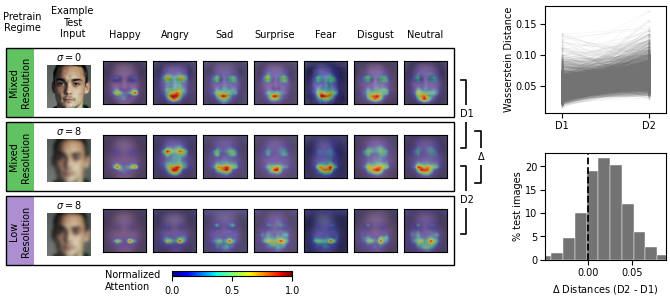
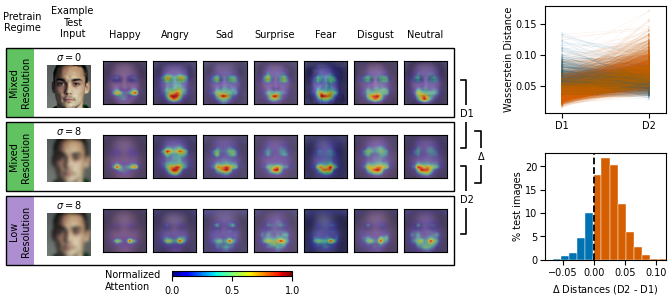
Add options for showing wasserstein dists in prototype figure

Changed region(s): [[0.806, 0.5066, 1.0, 0.9238], [0.8358, 0.0894, 0.9851, 0.3576]]

diff --git a/Figures/attention_maps/plot_wasserstein_dists_paired.py b/Figures/attention_maps/plot_wasserstein_dists_paired.py
@@ -9,8 +9,18 @@ import pandas as pd
 
 
 def plot_wasserstein_dists_paired(csv_path, ax=None, *, color="0.45", alpha=0.08,
-                                  linewidth=0.4, marker_size=2, font_size=7):
+                                  linewidth=0.4, marker_size=2, font_size=7,
+                                  line_color_mode="gray", marker_color_mode="gray",
+                                  positive_color="#0072B2", negative_color="#D55E00",
+                                  d1_color="#D55E00", d2_color="#0072B2", random_seed=0,
+                                  negative_on_top=False, line_alpha=None, transparent_slopes="all"):
     """Plot every finite distance pair, preserving row correspondence."""
+    if line_color_mode not in {"gray", "random", "slope"}:
+        raise ValueError("line_color_mode must be gray, random, or slope")
+    if marker_color_mode not in {"gray", "distance", "slope"}:
+        raise ValueError("marker_color_mode must be gray, distance, or slope")
+    if transparent_slopes not in {"all", "positive", "negative"}:
+        raise ValueError("transparent_slopes must be all, positive, or negative")
     frame = pd.read_csv(csv_path)
     columns = ["wasserstein_distance_a", "wasserstein_distance_b"]
     missing = [column for column in columns if column not in frame]
@@ -24,10 +34,40 @@ def plot_wasserstein_dists_paired(csv_path, ax=None, *, color="0.45", alpha=0.08
         _, ax = plt.subplots(figsize=(2.5, 2.5), layout="constrained")
     segments = np.stack([np.column_stack([np.zeros(len(pairs)), pairs[:, 0]]),
                          np.column_stack([np.ones(len(pairs)), pairs[:, 1]])], axis=1)
-    ax.add_collection(LineCollection(segments, colors=color, alpha=alpha,
+    slopes = pairs[:, 1] - pairs[:, 0]
+    slope_colors = [positive_color if slope > 0 else negative_color if slope < 0 else color
+                    for slope in slopes]
+    line_colors = color
+    if line_color_mode == "random":
+        line_colors = plt.get_cmap("hsv")(np.random.default_rng(random_seed).random(len(pairs)))
+    elif line_color_mode == "slope":
+        line_colors = slope_colors
+    if marker_color_mode == "slope":
+        marker_colors = slope_colors + slope_colors
+    elif marker_color_mode == "distance":
+        marker_colors = [d1_color] * len(pairs) + [d2_color] * len(pairs)
+    else:
+        marker_colors = color
+    line_opacity = alpha if line_alpha is None else line_alpha
+    marker_opacity = alpha
+    if transparent_slopes != "all":
+        selected = slopes > 0 if transparent_slopes == "positive" else slopes < 0
+        line_opacity = np.where(selected, line_opacity, 1.0)
+        marker_opacity = np.tile(np.where(selected, alpha, 1.0), 2)
+    if negative_on_top:
+        # Stable ordering preserves CSV order within each slope group, and keeps
+        # each random/slope color attached to its original observation.
+        order = np.argsort(pairs[:, 1] < pairs[:, 0], kind="stable")
+        segments = segments[order]
+        if np.ndim(line_opacity):
+            line_opacity = line_opacity[order]
+        if line_color_mode != "gray":
+            line_colors = np.asarray(line_colors)[order]
+    ax.add_collection(LineCollection(segments, colors=line_colors,
+                                     alpha=line_opacity,
                                      linewidths=linewidth, rasterized=True))
-    ax.scatter(np.repeat([0, 1], len(pairs)), pairs.T.ravel(), color=color,
-               alpha=alpha, s=marker_size, linewidths=0, rasterized=True)
+    ax.scatter(np.repeat([0, 1], len(pairs)), pairs.T.ravel(), color=marker_colors,
+               alpha=marker_opacity, s=marker_size, linewidths=0, rasterized=True)
     ax.autoscale_view()
     ax.set_xlim(-0.2, 1.2)
     ax.set_xticks([0, 1], ["D1", "D2"])
@@ -41,12 +81,21 @@ def main():
     parser = argparse.ArgumentParser(description=__doc__)
     parser.add_argument("csv_path", type=Path)
     parser.add_argument("--alpha", type=float, default=0.08)
+    parser.add_argument("--line-alpha", type=float, help="Line opacity; defaults to --alpha")
+    parser.add_argument("--transparent-slopes", choices=["all", "positive", "negative"], default="all")
     parser.add_argument("--linewidth", type=float, default=0.4)
+    parser.add_argument("--line-color-mode", choices=["gray", "random", "slope"], default="gray")
+    parser.add_argument("--marker-color-mode", choices=["gray", "distance", "slope"], default="gray")
+    parser.add_argument("--random-seed", type=int, default=0)
+    parser.add_argument("--negative-on-top", action="store_true")
     parser.add_argument("--output", type=Path)
     parser.add_argument("--no-show", action="store_true")
     args = parser.parse_args()
     ax = plot_wasserstein_dists_paired(args.csv_path, alpha=args.alpha,
-                                      linewidth=args.linewidth)
+                                      linewidth=args.linewidth, line_color_mode=args.line_color_mode,
+                                      marker_color_mode=args.marker_color_mode, random_seed=args.random_seed,
+                                      negative_on_top=args.negative_on_top, line_alpha=args.line_alpha,
+                                      transparent_slopes=args.transparent_slopes)
     if args.output:
         ax.figure.savefig(args.output)
     if args.no_show:

diff --git a/Figures/attention_maps/plot_wasserstein_deltas_hist.py b/Figures/attention_maps/plot_wasserstein_deltas_hist.py
@@ -14,7 +14,9 @@ import pandas as pd
 def plot_wasserstein_deltas_hist(csv_path, ax=None, *, bins=15, color="0.45",
                                  font_size=7, title="",
                                  title_weight="normal", xlim_quantiles=(0.005, 0.995),
-                                 zero_linewidth=1.3, yticks=tuple(range(0, 101, 5))):
+                                 zero_linewidth=1.3, yticks=tuple(range(0, 101, 5)),
+                                 color_by_sign=False, positive_color="#0072B2",
+                                 negative_color="#D55E00"):
     """Plot negated finite delta_a_minus_b values as percentages and return the destination axes.
 
     Missing, nonnumeric, and infinite values are excluded. Raise ValueError if
@@ -32,7 +34,16 @@ def plot_wasserstein_deltas_hist(csv_path, ax=None, *, bins=15, color="0.45",
         _, ax = plt.subplots(figsize=(3, 2.2), layout="constrained")
     values = -values  # Reverse A - B to D2 - D1.
     weights = np.full(values.size, 100.0 / values.size)
-    ax.hist(values, bins=bins, weights=weights, color=color, edgecolor="white", linewidth=0.3)
+    if color_by_sign:
+        # Split any bin crossing zero so each bar represents a single sign.
+        bins = np.histogram_bin_edges(values, bins=bins)
+        if bins[0] < 0 < bins[-1]:
+            bins = np.unique(np.append(bins, 0))
+    _, edges, bars = ax.hist(values, bins=bins, weights=weights, color=color,
+                             edgecolor="white", linewidth=0.3)
+    if color_by_sign:
+        for left, right, bar in zip(edges[:-1], edges[1:], bars):
+            bar.set_facecolor(positive_color if (left + right) / 2 >= 0 else negative_color)
     if xlim_quantiles is None:
         data_min, data_max = values.min(), values.max()
     else:
@@ -64,10 +75,11 @@ def main():
     parser = argparse.ArgumentParser(description=__doc__)
     parser.add_argument("csv_path", type=Path)
     parser.add_argument("--bins", type=int, default=15)
+    parser.add_argument("--color-by-sign", action="store_true")
     parser.add_argument("--output", type=Path)
     parser.add_argument("--no-show", action="store_true")
     args = parser.parse_args()
-    ax = plot_wasserstein_deltas_hist(args.csv_path, bins=args.bins)
+    ax = plot_wasserstein_deltas_hist(args.csv_path, bins=args.bins, color_by_sign=args.color_by_sign)
     if args.output:
         ax.figure.savefig(args.output)
     if args.no_show:

diff --git a/Config/figure_configs.py b/Config/figure_configs.py
@@ -109,8 +109,18 @@ _ATTENTION_CURRENT = {
     # A list selects two panels in top-to-bottom order, e.g. ["paired", "histogram"].
     "wasserstein_panel_stack_gap_inches": 0.4,
     "wasserstein_panel_stack_width_scale": 0.9,
-    "wasserstein_paired_color": "0.45",
-    "wasserstein_paired_alpha": 0.08,
+    "wasserstein_paired_color": "0.45",  # Gray mode and zero-slope lines.
+    "wasserstein_paired_line_color_mode": "slope",  # gray / random / slope
+    "wasserstein_paired_marker_color_mode": "slope",  # gray / distance (D1 vs D2) / slope
+    "wasserstein_paired_positive_color": "#D55E00",
+    "wasserstein_paired_negative_color": "#0072B2",
+    "wasserstein_paired_d1_color": "#0072B2",
+    "wasserstein_paired_d2_color": "#D55E00",
+    "wasserstein_paired_negative_on_top": False,  # Draw negative-slope lines last.
+    "wasserstein_paired_random_seed": 0,  # Reproducible random line colors.
+    "wasserstein_paired_alpha": 0.08,  # Marker opacity (and fallback line opacity).
+    "wasserstein_paired_transparent_slopes": "all",  # all / positive / negative; other slopes opaque.
+    "wasserstein_paired_line_alpha": None,  # Independent line opacity; None uses alpha.
     "wasserstein_paired_linewidth": 0.4,
     "wasserstein_paired_marker_size": 2,
     "wasserstein_scatter_color": "0.45",
@@ -123,8 +133,11 @@ _ATTENTION_CURRENT = {
     ),
     "wasserstein_histogram_bins": 15,
     "wasserstein_histogram_color": "0.45",
+    "wasserstein_histogram_color_by_sign": True,
+    "wasserstein_histogram_positive_color": "#D55E00",
+    "wasserstein_histogram_negative_color": "#0072B2",
     "wasserstein_histogram_title": "",
-    "wasserstein_histogram_xlim_quantiles": (0.005, 0.995),  # None shows full range.
+    "wasserstein_histogram_xlim_quantiles": None,  # (0.005, 0.995),  # None shows full range.
     "wasserstein_histogram_y_offset_inches": 0.0,  # Relative to middle model-row center.
     "wasserstein_histogram_zero_linewidth": 1.3,
     "wasserstein_histogram_yticks": list(range(0, 101, 5)),

diff --git a/Figures/attention_maps/plot_attention_prototypes.py b/Figures/attention_maps/plot_attention_prototypes.py
@@ -400,6 +400,9 @@ def plot_attention_maps(config):
                     xlim_quantiles=config["wasserstein_histogram_xlim_quantiles"],
                     zero_linewidth=config["wasserstein_histogram_zero_linewidth"],
                     yticks=config["wasserstein_histogram_yticks"],
+                    color_by_sign=config["wasserstein_histogram_color_by_sign"],
+                    positive_color=config["wasserstein_histogram_positive_color"],
+                    negative_color=config["wasserstein_histogram_negative_color"],
                 )
             elif panel_type == "scatter":
                 plot_wasserstein_dists_scatter(
@@ -414,8 +417,18 @@ def plot_attention_maps(config):
                     config["wasserstein_histogram_csv"], hist_ax,
                     color=config["wasserstein_paired_color"],
                     alpha=config["wasserstein_paired_alpha"],
+                    line_alpha=config["wasserstein_paired_line_alpha"],
+                    transparent_slopes=config["wasserstein_paired_transparent_slopes"],
                     linewidth=config["wasserstein_paired_linewidth"],
                     marker_size=config["wasserstein_paired_marker_size"], font_size=config["font_size"],
+                    line_color_mode=config["wasserstein_paired_line_color_mode"],
+                    marker_color_mode=config["wasserstein_paired_marker_color_mode"],
+                    positive_color=config["wasserstein_paired_positive_color"],
+                    negative_color=config["wasserstein_paired_negative_color"],
+                    d1_color=config["wasserstein_paired_d1_color"],
+                    d2_color=config["wasserstein_paired_d2_color"],
+                    random_seed=config["wasserstein_paired_random_seed"],
+                    negative_on_top=config["wasserstein_paired_negative_on_top"],
                 )
             hist_ax.set_box_aspect(hist_height_inches / hist_width)
             hist_ax.set_anchor("SW")

diff --git a/README.md b/README.md
@@ -135,3 +135,24 @@ The stack is centered on the middle model row. Adjust
 `wasserstein_panel_stack_gap_inches` for vertical spacing. Both panels use the
 shared CSV and panel dimensions; `wasserstein_paired_*` controls paired styling.
 The delta bracket is shown when the selection includes a histogram.
+
+Paired colors are controlled independently by
+`wasserstein_paired_line_color_mode` (`"gray"`, `"random"`, `"slope"`) and
+`wasserstein_paired_marker_color_mode` (`"gray"`, `"distance"`). Positive slope
+means D2 > D1; zero slopes retain the gray color. Random colors use the configured
+seed for repeatability. Colors for both slope signs and D1/D2 are configurable.
+Enable `wasserstein_histogram_color_by_sign` to color positive/negative D2-D1
+bars separately. A bin crossing zero is split there, which may add one bar.
+Standalone scripts support `--line-color-mode`, `--marker-color-mode`, and
+`--color-by-sign`, respectively. Defaults preserve gray lines, markers, and bars.
+
+Set `wasserstein_paired_marker_color_mode="slope"` to color both endpoints by
+their pair's slope, using the same positive/negative colors as slope-colored lines.
+`wasserstein_paired_line_alpha` controls line opacity independently of marker
+opacity (`wasserstein_paired_alpha`); `None` uses the marker opacity. The default
+line opacity is 0.04. The standalone script accepts `--line-alpha`.
+
+`wasserstein_paired_transparent_slopes` selects `"all"` (default), `"positive"`,
+or `"negative"`. Selected pairs use the configured line/marker alpha; other pairs
+are fully opaque. Both endpoints follow their pair's slope. Zero slopes remain
+opaque in selective modes. The standalone flag is `--transparent-slopes`.
